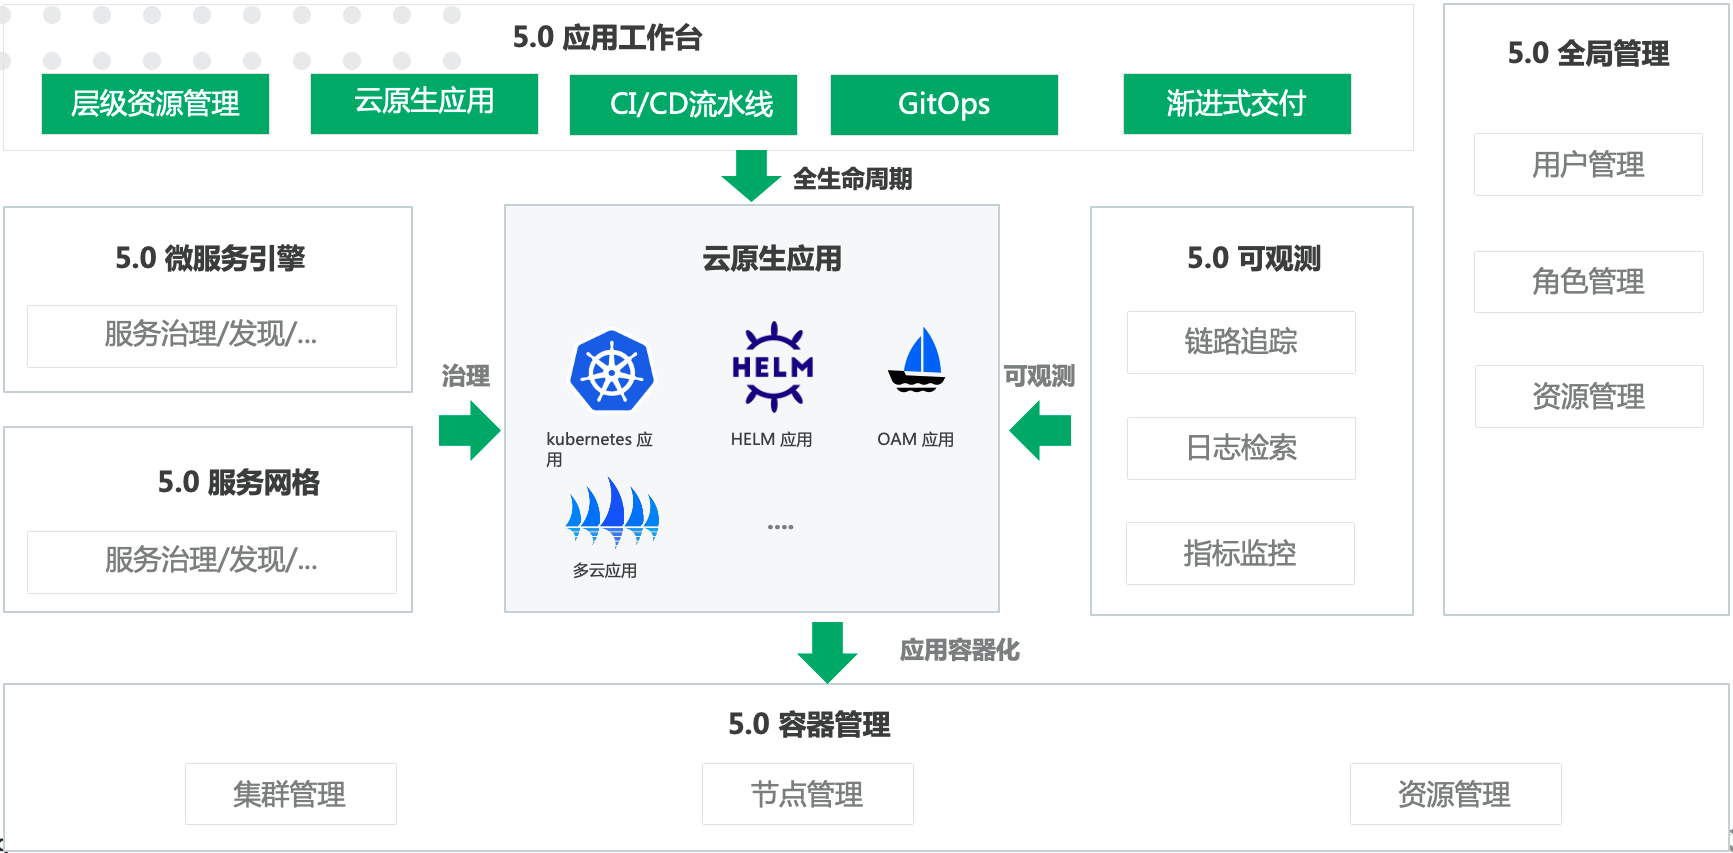
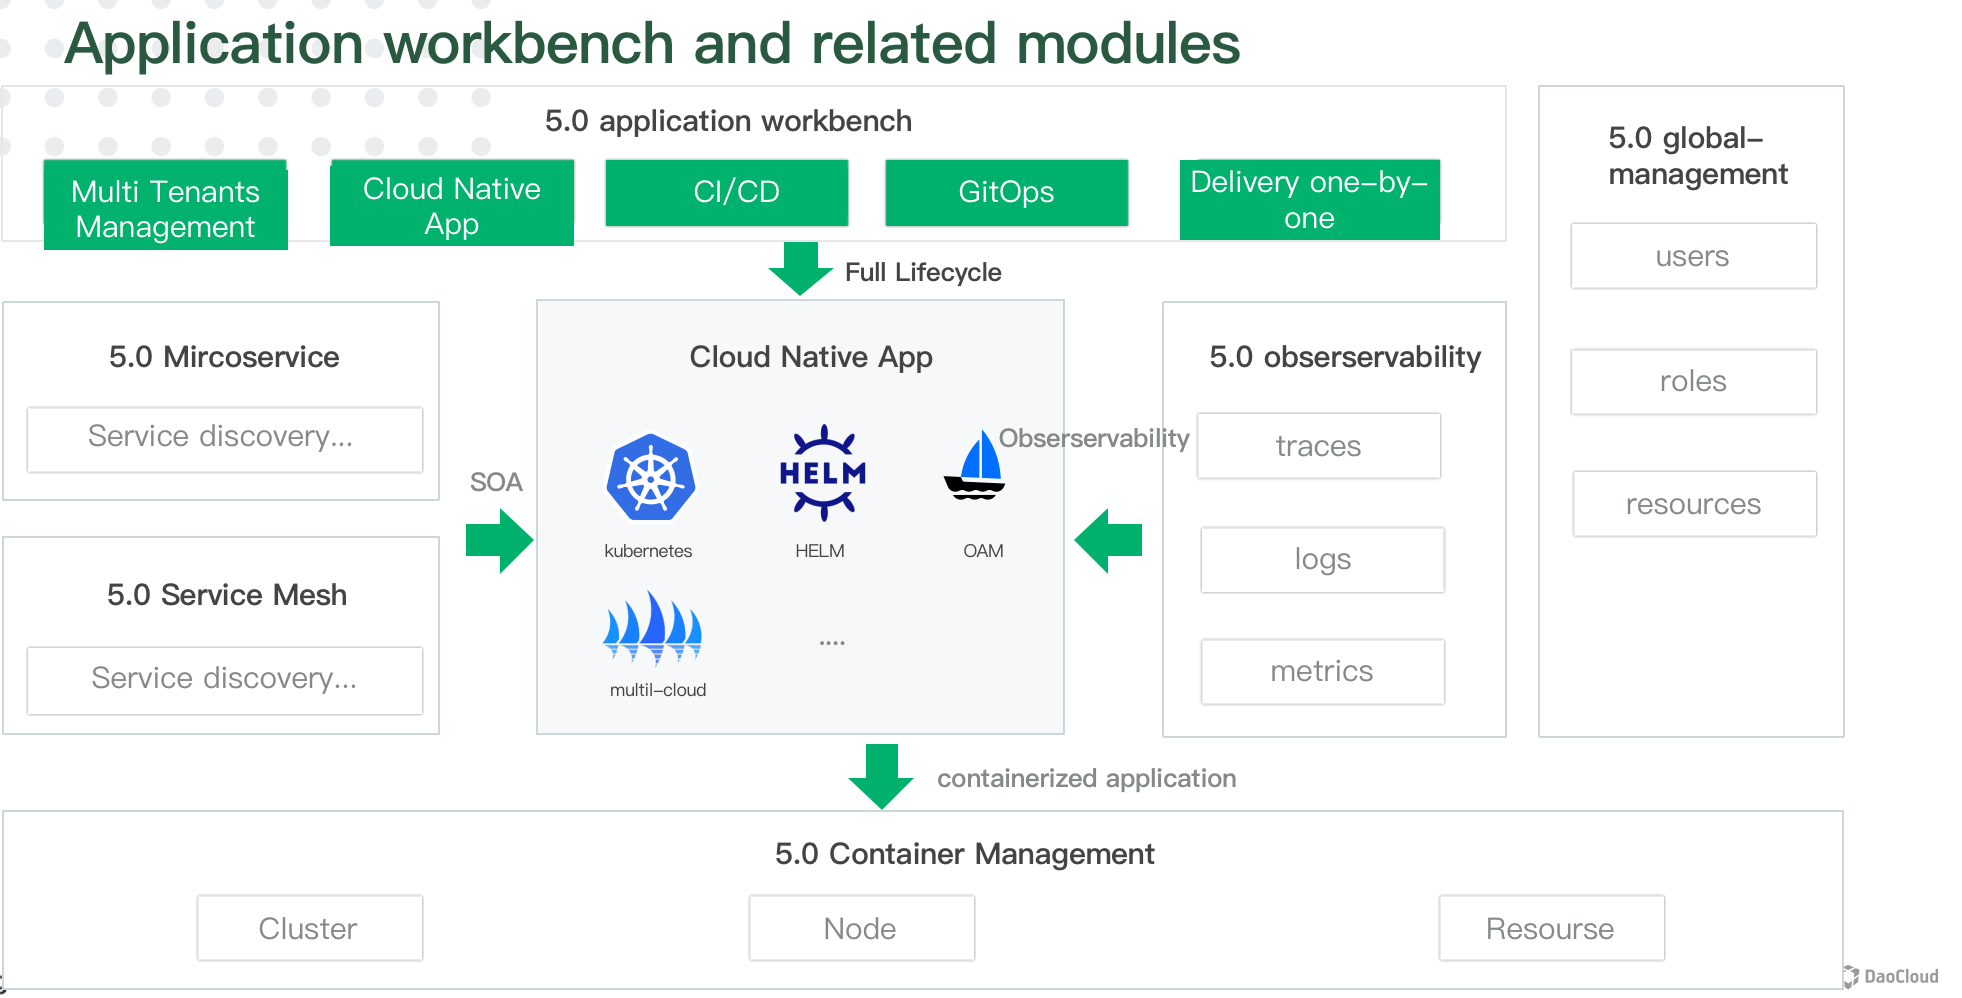
fix image and observability

diff --git a/docs/en/insight/03ProductBrief/benefits.md b/docs/en/insight/03ProductBrief/benefits.md
@@ -1,4 +1,4 @@
-# Benefits of Insight
+# Benefits of Observability
 
 - Multi-cluster Management
 
@@ -6,19 +6,18 @@
 
 - Out-of-the-box
 
-    - Dashboard: Insight provides a variety of out-of-the-box prefabricated monitoring dashboards. You can comprehensively monitor clusters, nodes, workloads and other components through built-in the dashboards.
+    - Dashboard: Observability provides a variety of out-of-the-box prefabricated monitoring dashboards. You can comprehensively monitor clusters, nodes, workloads and other components through the built-in dashboards.
 
-    - Alert rules: Insight provides built-in alarm rules that enable you to monitor cluster resources, system components and other basic indicators out of the box without configuration.
+    - Alert rules: Observability provides built-in alarm rules that enable you to monitor cluster resources, system components, and other basic metrics out of the box without configuration.
 
 - High Availability
 
-    - Lightweight agent, which supports one-click install the Helm.
+    - Lightweight agent, which supports for one-click installation with Helm.
 
-    - The data storage component supports multi copies to ensure high availability of data.
+    - The data storage component supports multiple replicas to guarantee the high availability of your data.
 
 - Open Source
 
-    - It is compatible with standard open source Prometheus and supports native PromQL to query metrics.
-    - It is compatible with standard Open Source ` Prometheus Yaml ` to collect configuration file and suitable for customizing the monitoring collection rule ServiceMonitor in Kubernetes.
-    - Follow the open source OpenTelemetry specification and support Jaeger's link data access.
-
+    - Compatible with Prometheus and supporting for the native PromQL to query metrics.
+    - Compatible with Prometheus YAML to collect profiles and suitable for customizing the `ServiceMonitor` rule in a Kubernetes cluster.
+    - Follow the OpenTelemetry specification and support for data access with the Jaeger's link.

diff --git a/docs/en/insight/03ProductBrief/WhatisInsight.md b/docs/en/insight/03ProductBrief/WhatisInsight.md
@@ -1,4 +1,4 @@
-# What is Insight？
+# What is Observability？
 
 The application Insight is a new generation cloud native observability platform that focuses on applications analyzing. It provides the out-of-the-box real-time resources monitoring, metrics, logs, events and other data to help you analyzing  application status. In additionally, it is compatible with popular open source components, and provides alerting, multi-dimensions data visualization, fault locating,one-click monitoring and diagnosing capabilities.
 
